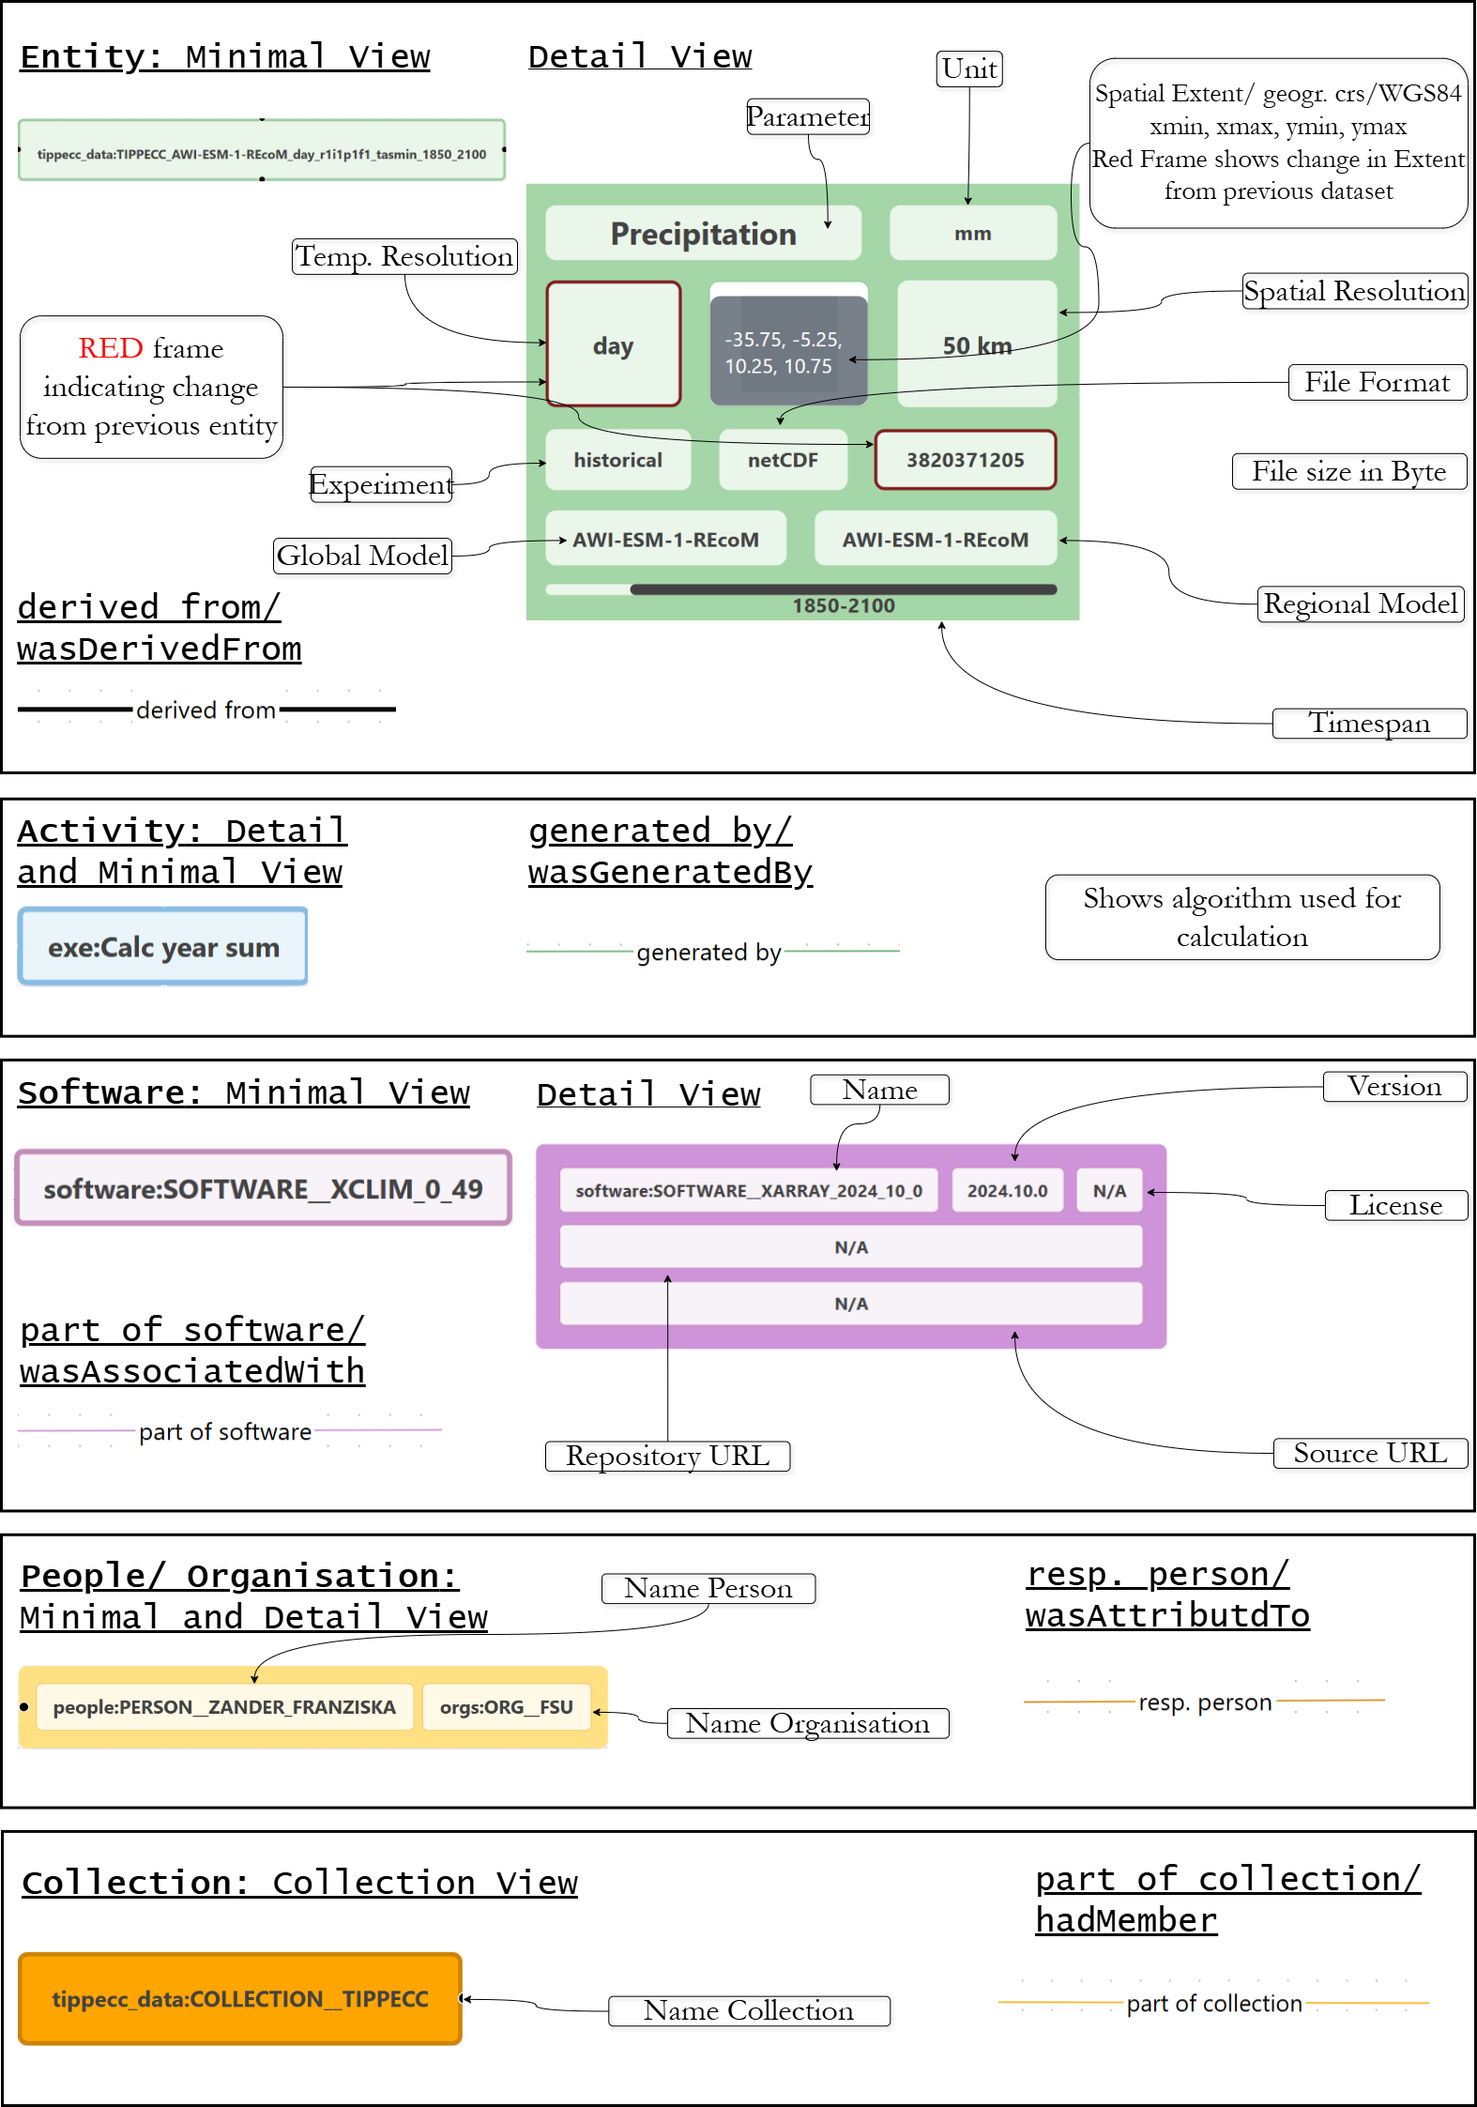
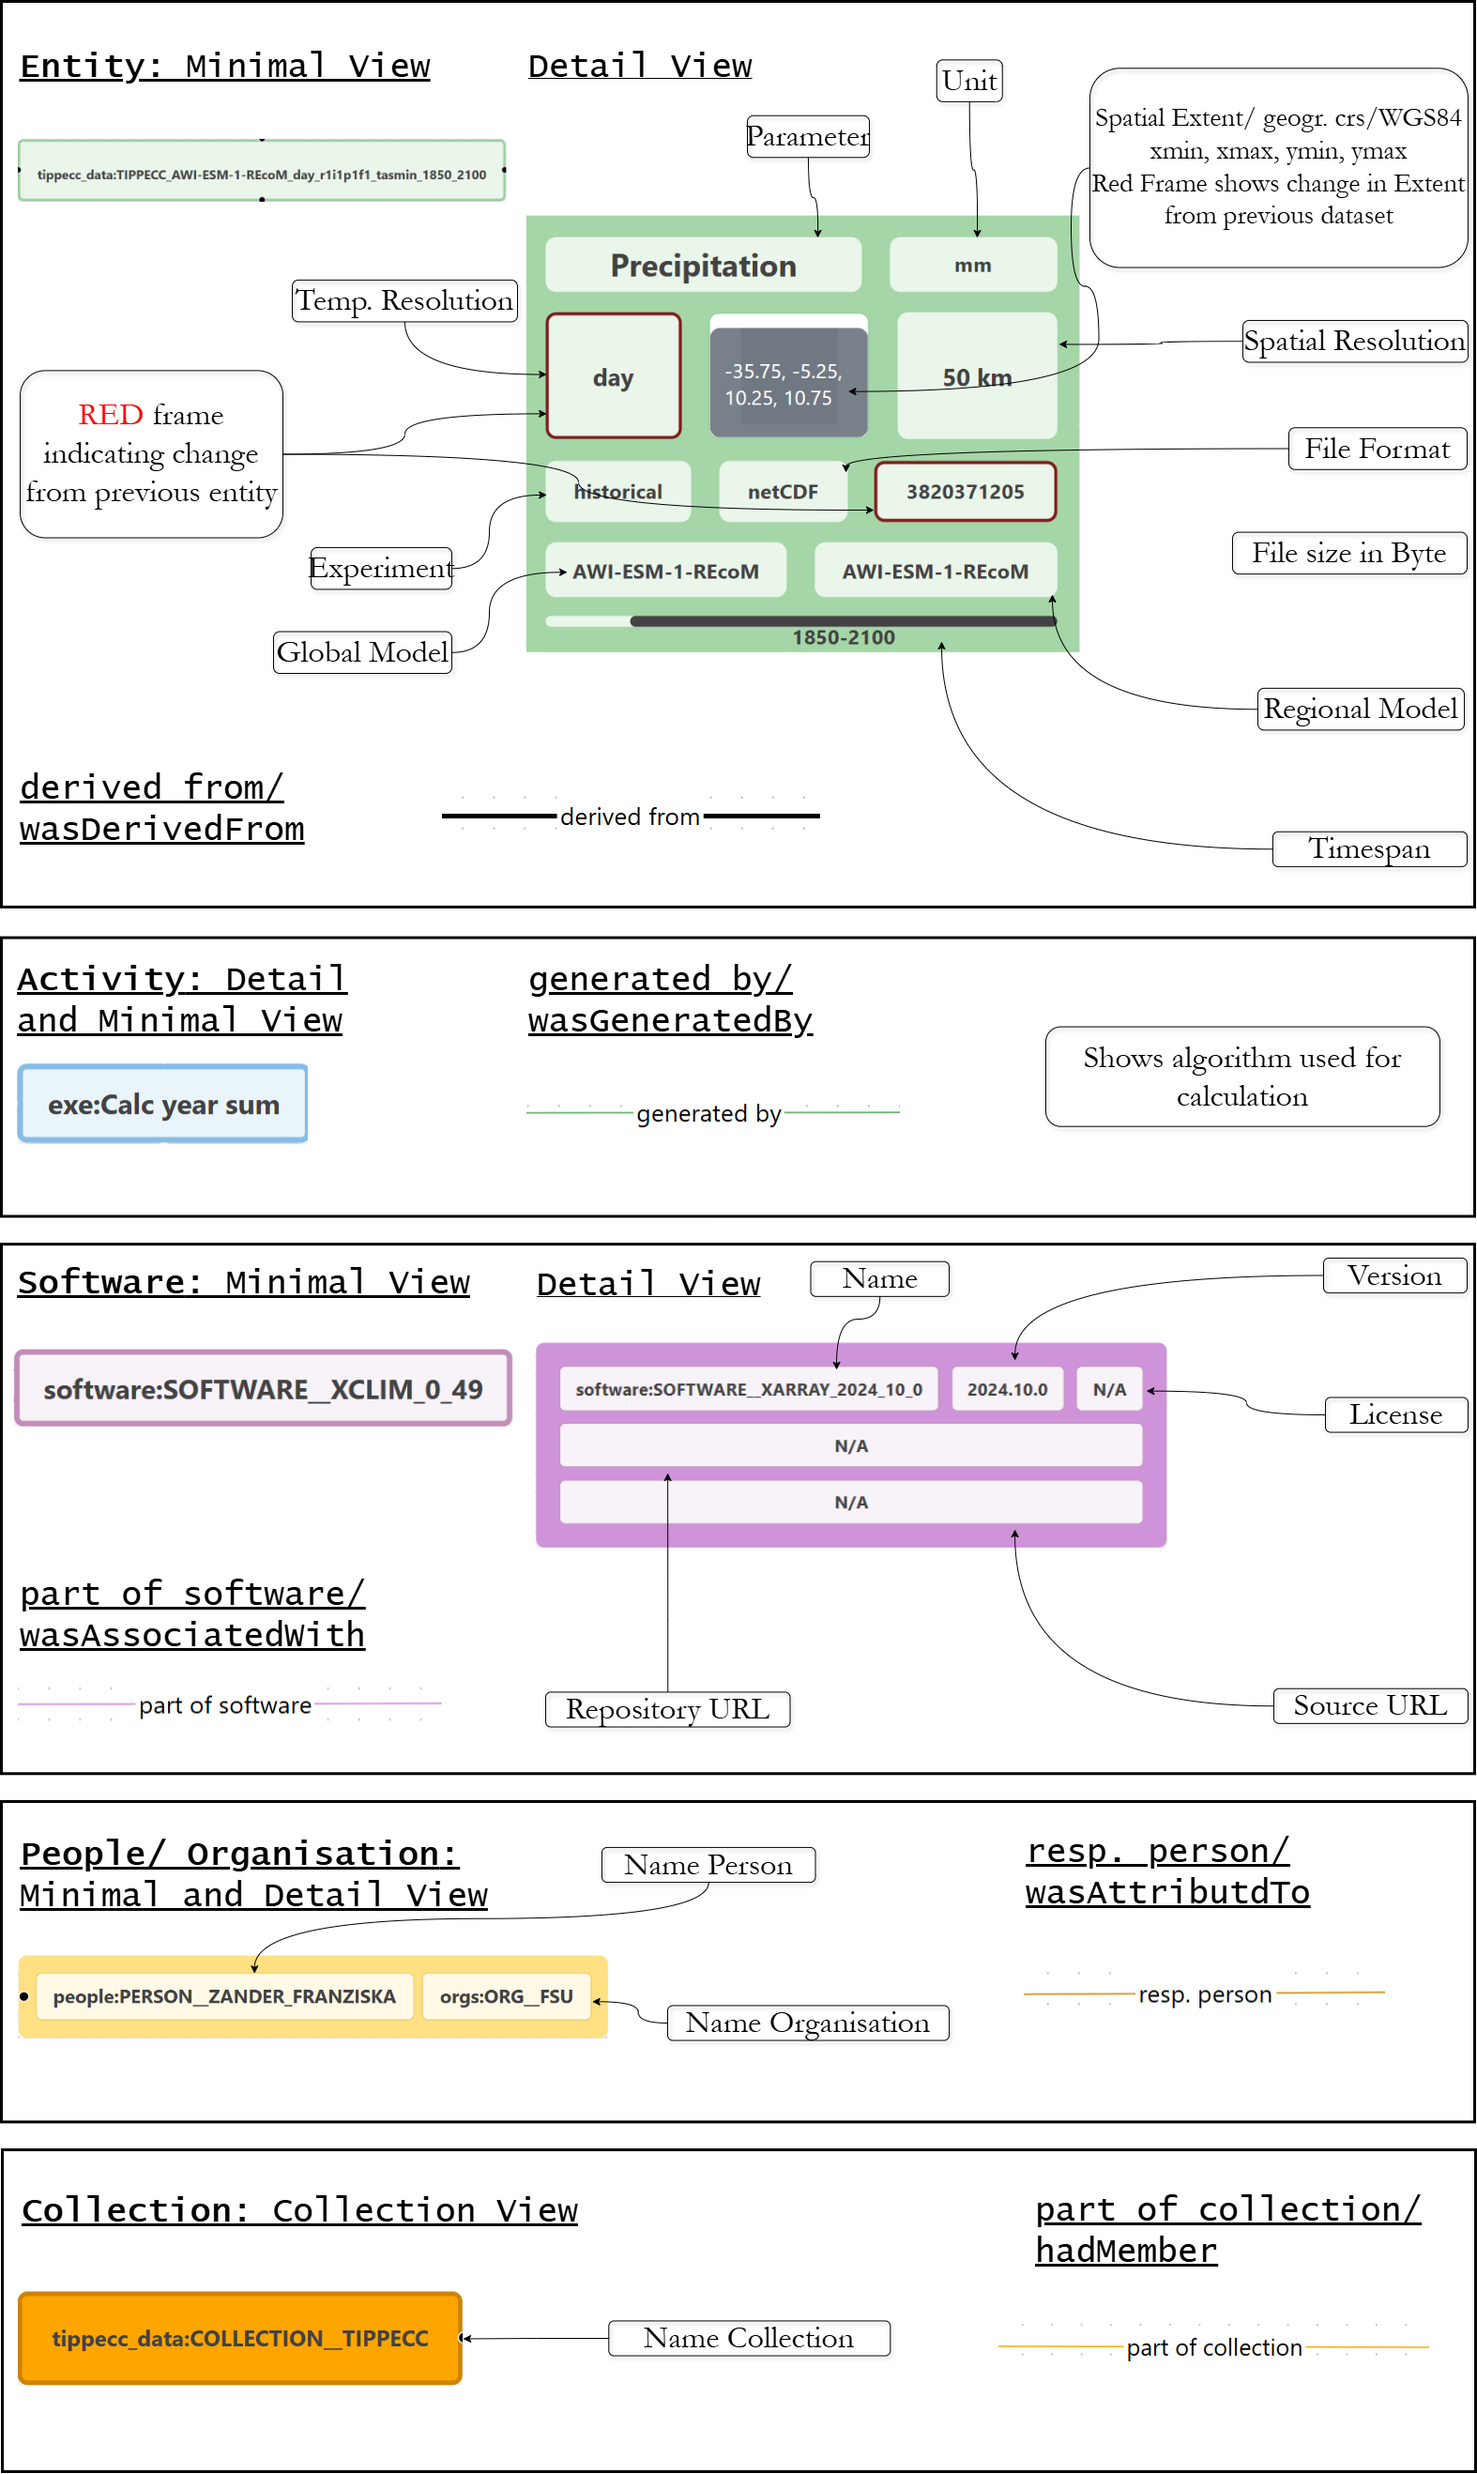
Removed Sidebar Headlines

diff --git a/src/lib/components/SidebarExplanation.svelte b/src/lib/components/SidebarExplanation.svelte
@@ -26,7 +26,7 @@ a {
 </style>
 
 <div class="sidebar">
-    <h2>Explanation</h2>
+    <h2></h2>
     <p>This is a Provenance visualization Tool for the TIPPECC and WaRisCo Projects. Infos about the projects can be found here:</p>
     <p><a href="https://www.climate-service-center.de/science/projects/detail/107781/index.php.de" target="_blank">Climate Service Center</a></p>
     <p><a href="http://www.warisco.uni-jena.de" target="_blank">Warisco Uni Jena</a></p>

diff --git a/src/lib/components/SidebarDetails.svelte b/src/lib/components/SidebarDetails.svelte
@@ -173,7 +173,7 @@ TargetProduct;${detailedData.targetProduct}
                     <path d="M4 6a1 1 0 011-1h3a1 1 0 011 1v3a1 1 0 11-2 0V7H6v2a1 1 0 01-2 0V6z" />
                 </svg>
             </button>
-            <h2>{"Entity Details"}</h2>
+            <h2>{""}</h2>
             <div class="triangle absolute left-1/2 -top-2 transform -translate-x-1/2"></div>
             
             <div class="table-container">

diff --git a/src/lib/components/SidebarLegend.svelte b/src/lib/components/SidebarLegend.svelte
@@ -11,7 +11,7 @@
 </style>
     
 <div class="sidebar">
-    <h2>Legend</h2>
+    <h2></h2>
     <img src="/legende.png" alt="Legend">
 </div>
     
